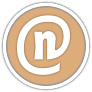
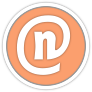
Updated link index view

diff --git a/app/assets/stylesheets/links.scss b/app/assets/stylesheets/links.scss
@@ -135,46 +135,47 @@ h1, h2{
 	color: $lightgrey;
 }
 
+// LINK ITEMS
+
 .link-item {
+	opacity: 0.8;
 	margin-top: 4px;
 	width: 100%;
 	height: 44px;
-	border-radius: 25px;
-	padding: 13px;
+	padding-top: 15px;
 	color: white;
 	background: $linkItems;
-	font-size: 1.2em;
-	font-weight: bold;
+	font-size: 1.1em;
+	font-weight: 400;
 	cursor: pointer;	
+	border-radius: 5px;
+	&:hover { opacity: 0.7;};
 	.link-icon {
-		a {color: $main; &:hover {color: $secondary;}}
-		.circle { 
-			position:absolute;
-			text-align: center;
-			padding-top: 6px;
-			padding-left: 1px;
-			font-size: 0.9em;
-			margin-top: -32px;
-			margin-left: -14px;
-			background: white;
-			height: 46px;
-			width: 46px;
-			border-radius: 50%;
-			.tag-img {margin: -6px 0 0 -1px;}
-		}
+		padding-left: 28px;
+		margin: -2px 0 0 -3px;
+		font-size: 1.2em; 
+		a { color: $white; &:hover {color: $main;}}
 	}
 	.link-title {}
-	.link-code { text-align: right;}
+	.link-code { text-align: right; padding-right: 20px;}
 	.expand-link { position: absolute; margin-left: 500px; margin-top: -17px; color: $secondary; cursor: pointer;}
 	}
+
+	// subscription colors
+
+	.sub-0 { background: $basic;} //basic}
+	.sub-1 { background: $silver;} //Silver
+	.sub-2 { background: $bronze;} //Bronze
+	.sub-3 { background: $gold;} //Gold
+
+	// status colors
 
 	.active {}
 	.ending {.link-code {color: orange;}}
 	.expired {
-		background: $expired-fill;
+		background: $expired-fill !important; 
 		border-color: $lightgrey !important;
-		.circle {color: $lightgrey;
-	}
+		&:hover { background: $main !important;};
 	.expired-btn {
 		border-color: $lightgrey !important;
 		a {color: $lightgrey;}

diff --git a/app/assets/stylesheets/welcome.scss b/app/assets/stylesheets/welcome.scss
@@ -139,9 +139,10 @@ n {font-family: 'Arial Black', cursive;}
 	
 }
 #detail-wrapper	{ padding-top: 380px;}
-#blackboard { margin-top: 0px;}
+#blackboard { margin-top: 20px;}
+#bus { margin-top: 50px;}
 .landing-content {max-width: 900px; margin: 0 auto; }
-.landing-detail { margin-top: 0px;}
+.landing-detail { margin-top: 50px;}
 #landing-bottom-margin { height: 100px;}
 
 @media only screen and (max-width: 1100px) {
@@ -179,7 +180,7 @@ n {font-family: 'Arial Black', cursive;}
 	
 }
 
-@media only screen and (max-width:575px) {
+@media only screen and (max-width:875px) {
 
 	.fetch-wrapper {
 	padding-top: 15%;
@@ -218,7 +219,7 @@ n {font-family: 'Arial Black', cursive;}
 	}
 	#detail-wrapper	{ padding-top: 960px;}
 	.detail-img {width: 350px; padding: 15px 0;}
-	.landing-detail { padding: 15px 15px;}
+	.landing-detail { padding: 0px 15px;}
 	.landing-token { padding: 10px 0;}
 	#dot-line	{ left: 46px; top: 198px;}
 	#own-img {display: none; margin-left: 30px;}

diff --git a/app/assets/stylesheets/_variables.scss b/app/assets/stylesheets/_variables.scss
@@ -13,13 +13,13 @@ $lightgrey: #D3D3D3;
 /* Subscription colors */
 $basic: #71AAC5;
 $silver: #D8D8D8;
-$bronze: #DCAC7B;
+$bronze: #FB9F6E;
 $gold: #E7D87F;
-$special: #EC6A6A;
+$special: #E2DC23;
 
 /* Specific colors */
 $welcomeButton: #7FE781;
 $linkItems: rgba(124,124,124,0.8);
-$expired-fill: rgba(124,124,124,0.4);
+$expired-fill: rgba(111,111,111,0.06);
 $appgreen: #A3E5A4;
 $superlight: #F4F8F6;
